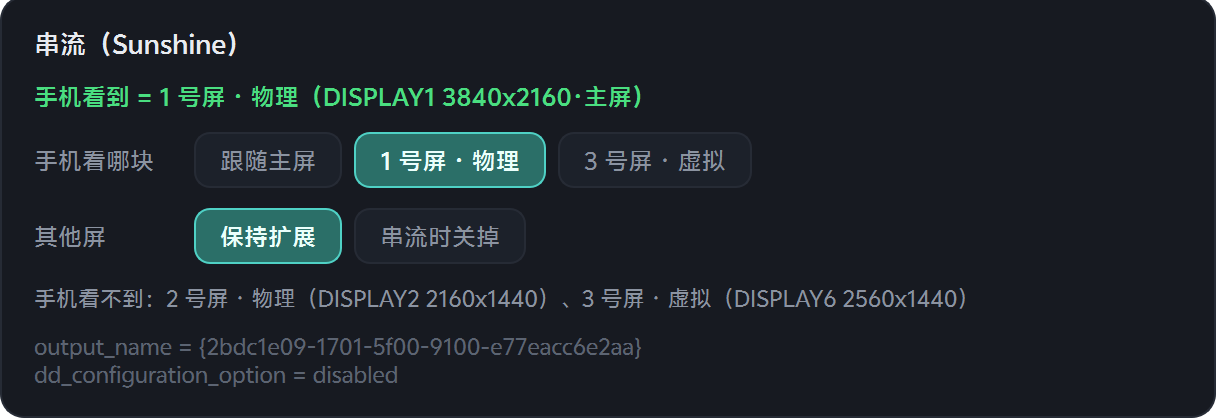
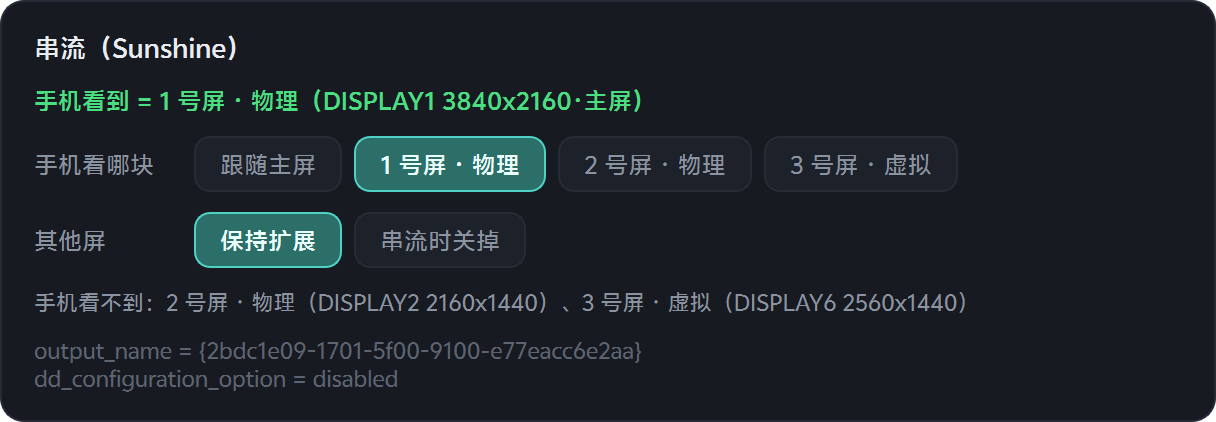
fix(串流): 「手机看哪块」按在位屏枚举，Sunshine 没认到的先重启一次再钉
目标按钮原来只列 Sunshine 启动时枚举到的屏，且按 device_id 取名：扩展出去的
物理副屏（插上才有的那块）没有条目就被漏掉，日志里没 GDI 名的虚拟屏也被灰掉。
现在目标行按 Windows 的在位屏重建，认不到的用 gdi:<DISPLAYn> 兜住，点下去先
重启一次 Sunshine 让它枚举、再写 output_name；面板与 --selftest 同步补了
「目标数 = 在位屏数」「没认到的也能点」两条判据。

本笔是上一轮的在途改动（已随 10-28 的桌面构建发出去，只是没提交），本轮按
hunk 与「关闭虚拟屏」拆成两笔，各带自己的 README/图。

diff --git a/panel/app.py b/panel/app.py
@@ -1601,11 +1601,12 @@ class Main(QWidget):
         self.lbl_ss_note.setVisible(False)
         l6.addWidget(self.lbl_ss_note)
 
-        # The target row is rebuilt from Sunshine's own enumeration: only a
-        # screen it listed at startup can be pinned through output_name. Fixed
-        # 「物理屏 / 虚拟屏」 buttons lied whenever there were two physical
-        # screens, and greyed the virtual screen out when its log entry simply
-        # had no GDI name.
+        # The target row is rebuilt from Windows' attached list, so an
+        # extended physical screen has a button even when it was plugged in
+        # after Sunshine started; such a button restarts Sunshine once to let
+        # it enumerate, then pins. Fixed 「物理屏 / 虚拟屏」 buttons lied
+        # whenever there were two physical screens, and greyed the virtual
+        # screen out when its log entry simply had no GDI name.
         self.ss_row = QWidget()
         self.ss_row.setObjectName("Row")
         self.ss_lay = QHBoxLayout(self.ss_row)
@@ -1775,7 +1776,7 @@ class Main(QWidget):
         out = (st.get("output_name") or "").strip()
         dd = (st.get("dd_configuration_option") or "disabled").strip()
         targets = ss.get("targets") or []
-        keys = {t["key"] for t in targets}
+        keys = {t["key"] for t in targets if t.get("key")}
         if not out:
             target = "system"
         elif out in keys:
@@ -1784,6 +1785,7 @@ class Main(QWidget):
             target = "stale"          # pinned to a screen Sunshine no longer lists
         return {"target": target, "keep": dd != "ensure_only_display",
                 "ids": ss.get("display_ids") or {}, "targets": targets,
+                "pending": [t for t in targets if not t.get("key")],
                 "settings": st}
 
     def _add_ss_btn(self, key, text, tip=""):
@@ -1801,9 +1803,14 @@ class Main(QWidget):
 
         Rebuilding every poll would flicker and steal focus; the keys, numbers
         and names are enough of a signature.
+
+        Every attached screen gets a button, even one Sunshine has not
+        enumerated yet (key is None). Hiding those was what made a physical
+        monitor plugged in after Sunshine started have no streaming choice at
+        all; such buttons carry their GDI name and resolve through a restart.
         """
         sig = tuple((t.get("key"), t.get("number"), t.get("kind"),
-                     t.get("name")) for t in targets)
+                     t.get("name"), t.get("gdi")) for t in targets)
         if sig == getattr(self, "_ss_sig", None):
             return
         self._ss_sig = sig
@@ -1820,8 +1827,12 @@ class Main(QWidget):
         for t in targets:
             num = t.get("number") or "?"
             kind = "虚拟" if t.get("kind") == "virtual" else "物理"
+            key = t.get("key") or ("gdi:" + (t.get("gdi") or ""))
             tip = "%s（%s）" % (t.get("name") or "未命名", t.get("gdi") or "")
-            self._add_ss_btn(t["key"], "%s 号屏 · %s" % (num, kind), tip)
+            if not t.get("key"):
+                tip += ("\nSunshine 还没认出这块屏（它只在启动时认屏）；"
+                        "点它会先重启一次 Sunshine")
+            self._add_ss_btn(key, "%s 号屏 · %s" % (num, kind), tip)
         self.ss_lay.addStretch(1)
 
     def _pick_stream_target(self, key):
@@ -2334,9 +2345,12 @@ class Main(QWidget):
         if kind == "stale":
             notes.append("output_name 指向的 device_id 不在 Sunshine 这次的屏列表里；"
                          "重启 Sunshine，或点「跟随主屏」重新选。")
-        if not any(t.get("kind") == "virtual" for t in targets):
-            notes.append("Sunshine 还没枚举到虚拟屏；重启一次 Sunshine 后，"
-                         "这里会出现「3 号屏 · 虚拟」。")
+        pending = [t for t in targets if not t.get("key")]
+        if pending:
+            notes.append("Sunshine 还没认出 %s（它只在启动时认屏）。"
+                         "点它时会先重启一次 Sunshine 再钉住。"
+                         % "、".join("%s 号屏" % (t.get("number") or "?")
+                                    for t in pending))
         self.lbl_ss_note.setText("\n".join(notes))
         self.lbl_ss_note.setVisible(bool(notes))
 
@@ -2486,17 +2500,26 @@ def selftest():
         axes = w._stream_axes()
         lit_t = [k for k, b in w.ss_btns.items() if bool(b.property("active"))]
         lit_o = [k for k, b in w.others_btns.items() if bool(b.property("active"))]
-        tnames = {t["key"]: "%s号屏" % t["number"] for t in axes["targets"]}
+        tnames = {(t.get("key") or "gdi:" + t["gdi"]): "%s号屏" % t["number"]
+                  for t in axes["targets"]}
         tshow = tnames.get(axes["target"], axes["target"])
         print("  串流目标          : %s keep=%s 亮=%s / %s"
               % (tshow, axes["keep"], [tnames.get(k, k) for k in lit_t], lit_o))
-        want_keys = {"system"} | {t["key"] for t in axes["targets"]}
-        checks.append(("串流目标 = 跟随主屏 + Sunshine 枚举到的屏",
+        want_keys = {"system"} | {(t.get("key") or "gdi:" + t["gdi"])
+                                  for t in axes["targets"]}
+        checks.append(("串流目标 = 跟随主屏 + 每块在位的屏（没认到的也能点）",
                        set(w.ss_btns) == want_keys,
-                       (sorted(w.ss_btns), sorted(want_keys))))
-        checks.append(("Sunshine 枚举到虚拟屏（EDID 兜底）",
-                       any(t["kind"] == "virtual" for t in axes["targets"]),
-                       [t["kind"] for t in axes["targets"]]))
+                       (len(w.ss_btns), len(want_keys))))
+        attached = [d for d in (s2.get("displays") or [])
+                    if d.get("attached")]
+        checks.append(("串流目标数 = 在位屏数（扩展物理屏不会漏）",
+                       len(axes["targets"]) == len(attached),
+                       (len(axes["targets"]), len(attached))))
+        checks.append(("Sunshine 认到虚拟屏（EDID 兜底）",
+                       any(t["kind"] == "virtual" and t.get("key")
+                           for t in axes["targets"]),
+                       [(t["kind"], bool(t.get("key")))
+                        for t in axes["targets"]]))
         checks.append(("其他屏两态齐全",
                        set(w.others_btns) == {"keep", "blank"},
                        sorted(w.others_btns)))

diff --git a/panel/backend.py b/panel/backend.py
@@ -11,6 +11,7 @@ vdd_core.py changes the panel's behaviour without a rebuild.
 
 import os
 import sys
+import time
 
 ROOT = r"C:\VirtualDisplay"
 
@@ -380,14 +381,17 @@ def configure_sunshine_follow():
 def set_stream_target(target, keep_others=True):
     """Choose which screen the phone sees, and what the others do.
 
-    ``target``: 'system', a Sunshine device_id from sunshine_targets(), or the
-    legacy 'physical'/'virtual' aliases. ``keep_others``: True leaves the rest
-    of the desktop alone; False makes Sunshine keep only the pinned screen
-    active for the duration of the session (and revert when the last client
-    leaves). 'system' ignores it - handing the choice back to Windows means
-    not managing the topology at all.
+    ``target``: 'system', a Sunshine device_id from sunshine_targets(), the
+    legacy 'physical'/'virtual' aliases, or 'gdi:\\\\.\\DISPLAYn' for a screen
+    Sunshine has not enumerated yet. ``keep_others``: True leaves the rest of
+    the desktop alone; False makes Sunshine keep only the pinned screen active
+    for the duration of the session (and revert when the last client leaves).
+    'system' ignores it - handing the choice back to Windows means not
+    managing the topology at all.
 
-    Sunshine only re-reads its config on start, so every path restarts it.
+    Sunshine only reads the config and enumerates screens on start, so every
+    path restarts it. A 'gdi:' target costs one extra restart: the first one
+    lets Sunshine see the newly plugged screen, the second applies output_name.
     """
     if core is None:
         return _err(CORE_ERROR)
@@ -399,8 +403,27 @@ def set_stream_target(target, keep_others=True):
             if not dev:
                 return _err("Sunshine 日志里还没有%s的 device_id —— 先重启一次 Sunshine"
                             % ("物理屏" if target == "physical" else "虚拟屏"))
+        elif str(target).startswith("gdi:"):
+            gdi = str(target)[4:]
+            rr = restart_sunshine_service()
+            if not rr.get("ok"):
+                return _err("要让 Sunshine 认出这块屏，重启失败：%s"
+                            % (rr.get("error") or "未知原因"))
+            # the service returns before its device list reaches the log; give
+            # it a few seconds rather than failing on a race we just created
+            hit = None
+            for _ in range(20):
+                hit = next((t for t in core.sunshine_targets()
+                            if t["gdi"] == gdi and t.get("key")), None)
+                if hit:
+                    break
+                time.sleep(0.4)
+            if hit is None:
+                return _err("Sunshine 重启后仍没认出 %s（屏幕可能在休眠，"
+                            "或已被拔掉）" % gdi)
+            dev = hit["key"]
         else:
-            valid = {t["key"] for t in core.sunshine_targets()}
+            valid = {t["key"] for t in core.sunshine_targets() if t.get("key")}
             if target not in valid:
                 return _err("Sunshine 没有枚举到这块屏：%s" % target)
             dev = target

diff --git a/vdd_core.py b/vdd_core.py
@@ -652,26 +652,34 @@ def _sunshine_entry_screen(dv, attached):
 
 
 def sunshine_targets(displays=None):
-    """Screens Sunshine actually enumerated, joined to Windows, by number.
+    """Every attached screen, with Sunshine's device_id where it knows one.
 
-    Each item carries key = the device_id output_name would hold, plus number,
-    kind, friendly name and GDI name. Sunshine can only capture a screen it
-    listed at startup, so the panel offers exactly these instead of guessing
-    from the physical/virtual split.
+    Listing only what Sunshine enumerated at *its* startup used to hide a
+    screen that was plugged in (or woken) later: the extended physical monitor
+    showed up in Windows and in the "phone cannot see" line, but the 「手机看
+    哪块」row simply had no button for it. The row now follows Windows' own
+    attached list and carries key = None for screens Sunshine has not seen yet;
+    the caller restarts Sunshine, which re-enumerates, then pins the device_id.
+
+    key  = output_name's value when Sunshine listed the screen, else None
+    gdi  = the Windows display name - stable no matter what Sunshine saw
     """
     if displays is None:
         displays = list_displays()
     attached = [d for d in displays if d.get("attached")]
-    targets = []
+    by_gdi = {}
     for dv in sunshine_displays():
         d = _sunshine_entry_screen(dv, attached)
-        if d is None:
-            continue
+        if d is not None and d["device"] not in by_gdi:
+            by_gdi[d["device"]] = dv
+    targets = []
+    for d in attached:
+        dv = by_gdi.get(d["device"]) or {}
         targets.append({
             "key": dv.get("device_id"),
             "number": d.get("number") or 0,
             "kind": "virtual" if d["virtual"] else "physical",
-            "name": dv.get("friendly_name") or "",
+            "name": dv.get("friendly_name") or d.get("monitor") or "",
             "gdi": d["device"],
             "primary": bool(d.get("primary")),
         })

diff --git a/README.md b/README.md
@@ -3,7 +3,8 @@
 **v0.3.0** · **单文件 exe**：装驱动、控制、串流配置，全在「虚拟显示器.exe」里。
 
 > **main 上未发版**：显示器布局卡新增**系统编号、拖动排列、每屏分辨率与缩放设置**；
-> 下面 v0.3.0 的 exe / zip 不含这些，发版后再更新下载入口。
+> 串流目标改为**按 Windows 在位的屏列出**（刚接上的物理副屏也能选，点它时会先重启
+> 一次 Sunshine 认屏）。下面 v0.3.0 的 exe / zip 不含这些，发版后再更新下载入口。
 
 ## v0.3.0（2026-10-16）
 
@@ -12,8 +13,8 @@
 - **「虚拟屏位置」终于有选中态**：此前那四个按钮只调 `setEnabled()`、从没调
   `mark()`，所以永远同色。现在当前在哪一侧由坐标**反推**（`virtual_side()`，与
   写入坐标的 `place_beside()` 共用一套公式），你在系统设置里手动拖它也跟着变
-- **串流画面拆成两个轴**：抓哪块屏（跟随系统 / 物理屏 / 虚拟屏）× 另一块屏
-  （保持扩展 / 串流时关掉）。以前只有两态，想让手机看物理屏只能绕去改主显示器
+- **串流画面拆成两个轴**：抓哪块屏（按编号列出**每块在位的屏**，含扩展物理副屏）×
+  另一块屏（保持扩展 / 串流时关掉）。以前只有两态，想让手机看物理屏只能绕去改主显示器
 - **串流卡加一行明说去向**：「手机看到 = 物理屏 `\\.\DISPLAY1` …」以及看不到的
   是哪块；`python streamcheck.py --where` 能从会话日志证明这句话是真的
 - **修：主显示器切不到虚拟屏** —— 单次 `ChangeDisplaySettingsEx` 返回成功却静默
@@ -33,15 +34,17 @@
 按 Windows 真实坐标画每块屏，**每块屏上的大字编号就是 Windows 显示设置里「标识」的
 编号**（这里 3 = 虚拟屏，1 = 物理主屏，2 = 下方副屏），虚拟屏用强调色描边并可直接
 拖动。图下几行是完整读数；下面按 **模式 → 主显示器 → 虚拟屏位置** 排列，
-当前生效的那一项都会亮 —— 图里是 扩展 / 1 号屏·物理 / 在上方。选中屏的
+当前生效的那一项都会亮 —— 图里是 扩展 / 1 号屏·物理 / 在右侧。选中屏的
 分辨率与缩放在按钮上方，**选中即生效**：点图中任意一块可切换。串流卡用同一套
 编号说「手机看到 = 1 号屏 · 物理」，所以其他屏那排亮「保持扩展」。
 
-![串流两轴：跟随系统 + 保持扩展](docs/images/stream-two-axes.png)
+![串流两轴：手机看哪块 × 其他屏关不关](docs/images/stream-two-axes.png)
 
-串流卡只回答两个问题：「手机看哪块」和「其他屏关不关」。目标只列 **Sunshine
-自己枚举到的屏**，按编号与示意图对得上；「跟随主屏」是不钉屏、让 Sunshine 抓
-主显示器。选「跟随主屏」时「其他屏」置灰 —— 那时候 Sunshine 完全不碰拓扑。
+串流卡只回答两个问题：「手机看哪块」和「其他屏关不关」。目标按 Windows **在位的
+屏**列出，编号与示意图对得上；「跟随主屏」是不钉屏、让 Sunshine 抓主显示器。
+Sunshine 只在启动时认屏，所以刚插上的物理副屏也有按钮：点它会先重启一次
+Sunshine 拿到 `device_id` 再钉住。选「跟随主屏」时「其他屏」置灰 —— 那时候
+Sunshine 完全不碰拓扑。
 
 ### 下载
 
@@ -204,17 +207,19 @@ C:\VirtualDisplayDriver\vdd_settings.xml    驱动强制要求的配置路径
   分辨率和缩放都是**下拉选中即生效**，与 Windows 设置里改这两项的操作一致，
   没有额外的应用按钮。
 
-#### 「手机看哪块」只列 Sunshine 枚举到的屏
+#### 「手机看哪块」按 Windows 在位的屏列出
 
 Sunshine 每场会话只复制**一块**屏：`output_name` 指定的那块，或者（未设时）
 主显示器。所以扩展拓扑下把窗口拖到另一块屏，手机看不到 —— 这是这套机制的
 固有行为，不是坏在这里。
 
-目标按钮只列 Sunshine 启动时枚举到的屏，并按 Windows 编号命名；「跟随主屏」
-就是不钉屏。虚拟屏的日志条目常常没有 GDI 名（`display_name` 为空），面板按
-EDID 的 MTT 标记把它对回当前虚拟屏，所以「3 号屏 · 虚拟」仍然可选 —— 旧版会
-因为 join 失败误报「还没有虚拟屏的 device_id」并把按钮置灰。副屏如果不在
-Sunshine 的枚举里就不会出现在列表：钉不了，列出来只会骗人。
+目标按钮按 Windows 的**在位屏**列出（编号与示意图、系统「标识」一致），
+「跟随主屏」就是不钉屏。Sunshine 的 `device_id` 只能从它自己的启动枚举里取：
+虚拟屏的日志条目常常没有 GDI 名（`display_name` 为空），面板按 EDID 的 MTT
+标记把它对回当前虚拟屏。物理副屏如果在 Sunshine 启动**之后**才接上，日志里
+还没有它的 id —— 按钮照样在，点下去先重启一次 Sunshine 让它认屏，再写
+`output_name`、再重启应用。旧版会把这种屏直接藏起来（「钉不了，列出来只会
+骗人」），结果扩展物理屏根本没有串流选项。
 
 面板那行「手机看到 = …」是按配置推断的。要拿会话级的实证：
 
@@ -248,9 +253,10 @@ vdd.py doctor                 完整体检
 输出 `RESULT`（构建与 UI 是否正常）与 `DRIVER`（驱动实际状态）两行 ——
 刻意分开，否则驱动未安装会把「代码有问题」和「环境没配好」混为一谈。
 
-面板的 `--selftest` 还带 37 项自检：显示模式与位置按钮各只亮一个、亮的那一侧
-等于坐标反推的结果、示意图拿到两块在位的屏、图下完整读数非空、串流目标只列
-Sunshine 枚举到的屏、虚拟屏 EDID 兜底、其他屏两态、手机看到哪块说得出来、四个
+面板的 `--selftest` 还带 38 项自检：显示模式与位置按钮各只亮一个、亮的那一侧
+等于坐标反推的结果、示意图拿到两块在位的屏、图下完整读数非空、串流目标覆盖
+每块在位的屏（Sunshine 没认到的也有按钮）、虚拟屏 EDID 兜底、其他屏两态、
+手机看到哪块说得出来、四个
 方向的点击区各自命中、点参照屏正中不挪屏、物理副屏可拖、主屏拒绝拖动、每块屏的
 系统编号连续、选中态与分辨率/缩放回读、没有应用按钮（选中即生效）、缩放下拉不
 越界、设置行在首屏内、分辨率和缩放同一行、拖动坐标往返、贴边吸附与重叠推开、
